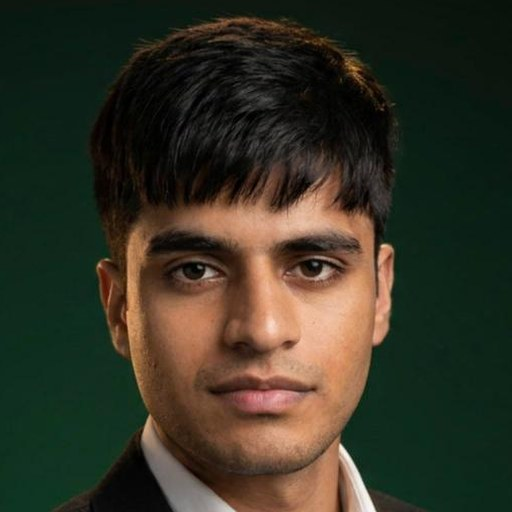
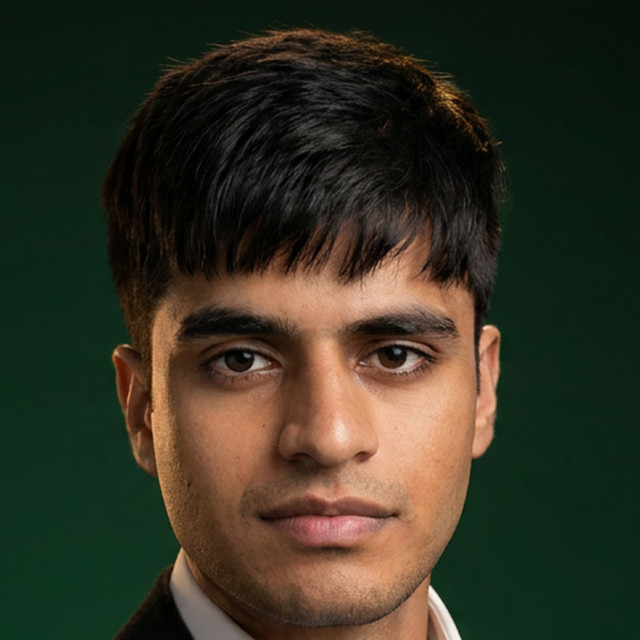
Founder portrait in true HD: 4x upscale, 1578x1973 with an 800w size
Claude-Session: https://claude.ai/code/session_0187yqiVD468vrpVUDyKmScc

Changed region(s): [[0.0938, 0.0312, 0.8438, 1.0], [0.75, 0.2188, 0.7812, 0.2812]]

diff --git a/index.html b/index.html
@@ -421,11 +421,11 @@
   </script>
 
   <link rel="preconnect" href="https://cdn.jsdelivr.net" crossorigin />
-  <script src="/analytics.js?v=44" async></script>
+  <script src="/analytics.js?v=45" async></script>
   <link rel="preload" as="image" href="https://i.ytimg.com/vi/UsLYYyKEknE/oar2.jpg" fetchpriority="high" />
   <link rel="preload" as="font" type="font/woff2" href="/assets/fonts/cormorant-garamond-latin-500-normal.woff2" crossorigin />
   <link rel="preload" as="font" type="font/woff2" href="/assets/fonts/figtree-latin-400-normal.woff2" crossorigin />
-  <link rel="stylesheet" href="styles.css?v=44" />
+  <link rel="stylesheet" href="styles.css?v=45" />
   <script>document.documentElement.classList.add('js','footer-gated')</script>
   <noscript><style>.loader,.cursor{display:none!important}body.is-loading{overflow:auto}</style></noscript>
 </head>
@@ -855,7 +855,7 @@
     <section class="team">
       <div class="container founderx">
         <figure class="founderx__photo" data-reveal>
-          <img src="assets/founder/ritik-sharma-portrait.jpg" alt="Ritik Sharma, Founder &amp; Director of Akarsa Studio" width="620" height="767" loading="lazy" decoding="async" />
+          <img src="assets/founder/ritik-sharma-portrait.jpg" srcset="assets/founder/ritik-sharma-portrait-800.jpg 800w, assets/founder/ritik-sharma-portrait.jpg 1578w" sizes="(max-width: 900px) 92vw, 46vw" alt="Ritik Sharma, Founder &amp; Director of Akarsa Studio" width="1578" height="1973" loading="lazy" decoding="async" />
         </figure>
         <div class="founderx__text">
           <span class="pill" data-pop>The founder</span>
@@ -1036,11 +1036,11 @@
     </div>
   </footer>
 
-  <script src="config.js?v=44"></script>
-  <script src="showcase.js?v=44" defer></script>
+  <script src="config.js?v=45"></script>
+  <script src="showcase.js?v=45" defer></script>
   <script src="https://cdn.jsdelivr.net/npm/gsap@3.12.5/dist/gsap.min.js" integrity="sha384-g4NTh/Iv5PPU4xPyhEWqPcwtNXOvdaDI8LLnyYfyNZOjKJeYQyjzQ9X5275eBjpt" crossorigin="anonymous"></script>
   <script src="https://cdn.jsdelivr.net/npm/gsap@3.12.5/dist/ScrollTrigger.min.js" integrity="sha384-Z3REaz79l2IaAZqJsSABtTbhjgOUYyV3p90XNnAPCSHg3EMTz1fouunq9WZRtj3d" crossorigin="anonymous"></script>
   <script src="https://cdn.jsdelivr.net/npm/lenis@1.1.13/dist/lenis.min.js" integrity="sha384-B2WBjDzEjJpYvhmi2UyEn7rektqkf5suS6sNoyyrf0EBAwBHdkiXxIlU0V5Ru2ed" crossorigin="anonymous"></script>
-  <script src="script.js?v=44"></script>
+  <script src="script.js?v=45"></script>
 </body>
 </html>

diff --git a/about.html b/about.html
@@ -17,7 +17,7 @@
       oaiq("measure", "lead_created", { type: "customer_action" });
     });
   </script>
-  <script src="/analytics.js?v=44" async></script>
+  <script src="/analytics.js?v=45" async></script>
   <meta name="viewport" content="width=device-width, initial-scale=1" />
   <title>About Akarsa Studio | Brand, Content &amp; Performance Studio, Dubai &amp; Indore</title>
   <meta name="description" content="Akarsa Studio Private Limited is a brand, content and performance studio for luxury real estate and jewellery brands, founded by Ritik Sharma. Facts, clients, results and contact." />
@@ -44,8 +44,8 @@
   <script>document.documentElement.classList.add('js')</script>
   <link rel="preload" as="font" type="font/woff2" href="/assets/fonts/open-sauce-one-latin-700-normal.woff2" crossorigin />
   <link rel="preload" as="font" type="font/woff2" href="/assets/fonts/open-sauce-one-latin-400-normal.woff2" crossorigin />
-  <link rel="stylesheet" href="/styles.css?v=44" />
-  <link rel="stylesheet" href="/page.css?v=44" />
+  <link rel="stylesheet" href="/styles.css?v=45" />
+  <link rel="stylesheet" href="/page.css?v=45" />
   <script type="application/ld+json">
 {
  "@context": "https://schema.org",
@@ -204,7 +204,7 @@
             <a class="ghost" href="#faq">Read the FAQs ↓</a>
           </div>
         </div>
-        <div class="pvisual pvisual--portrait"><img src="/assets/founder/ritik-sharma-portrait.jpg" alt="Ritik Sharma, Founder &amp; Director of Akarsa Studio" width="620" height="767" loading="eager" />
+        <div class="pvisual pvisual--portrait"><img src="/assets/founder/ritik-sharma-portrait.jpg" srcset="/assets/founder/ritik-sharma-portrait-800.jpg 800w, /assets/founder/ritik-sharma-portrait.jpg 1578w" sizes="(max-width: 900px) 92vw, 44vw" alt="Ritik Sharma, Founder &amp; Director of Akarsa Studio" width="1578" height="1973" loading="eager" />
   <div class="pvisual__cap"><strong>Ritik Sharma</strong><span>Founder &amp; Director</span></div>
 </div>
       </div>
@@ -277,8 +277,8 @@
       <a href="#top" class="to-top">Back to top ↑</a>
     </div>
   </footer>
-  <script src="/config.js?v=44"></script>
-  <script src="/page.js?v=44"></script>
-  <script src="/showcase.js?v=44" defer></script>
+  <script src="/config.js?v=45"></script>
+  <script src="/page.js?v=45"></script>
+  <script src="/showcase.js?v=45" defer></script>
 </body>
 </html>

diff --git a/meta-ads-agency-indore.html b/meta-ads-agency-indore.html
@@ -17,7 +17,7 @@
       oaiq("measure", "lead_created", { type: "customer_action" });
     });
   </script>
-  <script src="/analytics.js?v=44" async></script>
+  <script src="/analytics.js?v=45" async></script>
   <meta name="viewport" content="width=device-width, initial-scale=1" />
   <title>Meta Ads Agency in Indore | Facebook &amp; Instagram Ads</title>
   <meta name="description" content="Facebook &amp; Instagram ads from Indore that cut cost per lead. Real result: ₹30K turned into 52 enquiries at ₹577 each. Strategy, creative, tracking." />
@@ -44,8 +44,8 @@
   <script>document.documentElement.classList.add('js')</script>
   <link rel="preload" as="font" type="font/woff2" href="/assets/fonts/open-sauce-one-latin-700-normal.woff2" crossorigin />
   <link rel="preload" as="font" type="font/woff2" href="/assets/fonts/open-sauce-one-latin-400-normal.woff2" crossorigin />
-  <link rel="stylesheet" href="/styles.css?v=44" />
-  <link rel="stylesheet" href="/page.css?v=44" />
+  <link rel="stylesheet" href="/styles.css?v=45" />
+  <link rel="stylesheet" href="/page.css?v=45" />
   <script type="application/ld+json">
 {
  "@context": "https://schema.org",
@@ -291,8 +291,8 @@
       <a href="#top" class="to-top">Back to top ↑</a>
     </div>
   </footer>
-  <script src="/config.js?v=44"></script>
-  <script src="/page.js?v=44"></script>
-  <script src="/showcase.js?v=44" defer></script>
+  <script src="/config.js?v=45"></script>
+  <script src="/page.js?v=45"></script>
+  <script src="/showcase.js?v=45" defer></script>
 </body>
 </html>

diff --git a/results.html b/results.html
@@ -17,7 +17,7 @@
       oaiq("measure", "lead_created", { type: "customer_action" });
     });
   </script>
-  <script src="/analytics.js?v=44" async></script>
+  <script src="/analytics.js?v=45" async></script>
   <meta name="viewport" content="width=device-width, initial-scale=1" />
   <title>Meta Ads Results &amp; ROAS: Real Numbers | Akarsa Studio</title>
   <meta name="description" content="Real Meta ads numbers from Ads Manager: 196 purchases at ₹381 each and 3.7× ROAS for an e-commerce brand, and 2.74× ROAS for an international store." />
@@ -44,8 +44,8 @@
   <script>document.documentElement.classList.add('js')</script>
   <link rel="preload" as="font" type="font/woff2" href="/assets/fonts/open-sauce-one-latin-700-normal.woff2" crossorigin />
   <link rel="preload" as="font" type="font/woff2" href="/assets/fonts/open-sauce-one-latin-400-normal.woff2" crossorigin />
-  <link rel="stylesheet" href="/styles.css?v=44" />
-  <link rel="stylesheet" href="/page.css?v=44" />
+  <link rel="stylesheet" href="/styles.css?v=45" />
+  <link rel="stylesheet" href="/page.css?v=45" />
   <script type="application/ld+json">
 {
  "@context": "https://schema.org",
@@ -274,8 +274,8 @@
       <a href="#top" class="to-top">Back to top ↑</a>
     </div>
   </footer>
-  <script src="/config.js?v=44"></script>
-  <script src="/page.js?v=44"></script>
-  <script src="/showcase.js?v=44" defer></script>
+  <script src="/config.js?v=45"></script>
+  <script src="/page.js?v=45"></script>
+  <script src="/showcase.js?v=45" defer></script>
 </body>
 </html>

diff --git a/ugc-video-production-agency.html b/ugc-video-production-agency.html
@@ -17,7 +17,7 @@
       oaiq("measure", "lead_created", { type: "customer_action" });
     });
   </script>
-  <script src="/analytics.js?v=44" async></script>
+  <script src="/analytics.js?v=45" async></script>
   <meta name="viewport" content="width=device-width, initial-scale=1" />
   <title>UGC &amp; Reels Production Agency in India | Akarsa Studio</title>
   <meta name="description" content="Scroll-stopping reels, UGC ads and short-form edits from Indore — hooks, scripts, shooting, editing and motion for Instagram, YouTube Shorts and ads." />
@@ -44,8 +44,8 @@
   <script>document.documentElement.classList.add('js')</script>
   <link rel="preload" as="font" type="font/woff2" href="/assets/fonts/open-sauce-one-latin-700-normal.woff2" crossorigin />
   <link rel="preload" as="font" type="font/woff2" href="/assets/fonts/open-sauce-one-latin-400-normal.woff2" crossorigin />
-  <link rel="stylesheet" href="/styles.css?v=44" />
-  <link rel="stylesheet" href="/page.css?v=44" />
+  <link rel="stylesheet" href="/styles.css?v=45" />
+  <link rel="stylesheet" href="/page.css?v=45" />
   <script type="application/ld+json">
 {
  "@context": "https://schema.org",
@@ -285,8 +285,8 @@
       <a href="#top" class="to-top">Back to top ↑</a>
     </div>
   </footer>
-  <script src="/config.js?v=44"></script>
-  <script src="/page.js?v=44"></script>
-  <script src="/showcase.js?v=44" defer></script>
+  <script src="/config.js?v=45"></script>
+  <script src="/page.js?v=45"></script>
+  <script src="/showcase.js?v=45" defer></script>
 </body>
 </html>

diff --git a/insights/meta-ads-cost-india.html b/insights/meta-ads-cost-india.html
@@ -17,7 +17,7 @@
       oaiq("measure", "lead_created", { type: "customer_action" });
     });
   </script>
-  <script src="/analytics.js?v=44" async></script>
+  <script src="/analytics.js?v=45" async></script>
   <meta name="viewport" content="width=device-width, initial-scale=1" />
   <title>Meta Ads Cost in India (2026): CPM, CPC &amp; Cost per Lead</title>
   <meta name="description" content="Meta (Facebook &amp; Instagram) ads cost in India in 2026: CPM, CPC and cost-per-lead benchmarks by industry — plus real campaign data from Indore." />
@@ -44,8 +44,8 @@
   <script>document.documentElement.classList.add('js')</script>
   <link rel="preload" as="font" type="font/woff2" href="/assets/fonts/open-sauce-one-latin-700-normal.woff2" crossorigin />
   <link rel="preload" as="font" type="font/woff2" href="/assets/fonts/open-sauce-one-latin-400-normal.woff2" crossorigin />
-  <link rel="stylesheet" href="/styles.css?v=44" />
-  <link rel="stylesheet" href="/page.css?v=44" />
+  <link rel="stylesheet" href="/styles.css?v=45" />
+  <link rel="stylesheet" href="/page.css?v=45" />
   <script type="application/ld+json">
 {
  "@context": "https://schema.org",
@@ -299,8 +299,8 @@
       <a href="#top" class="to-top">Back to top ↑</a>
     </div>
   </footer>
-  <script src="/config.js?v=44"></script>
-  <script src="/page.js?v=44"></script>
-  <script src="/showcase.js?v=44" defer></script>
+  <script src="/config.js?v=45"></script>
+  <script src="/page.js?v=45"></script>
+  <script src="/showcase.js?v=45" defer></script>
 </body>
 </html>

diff --git a/insights/reddit-ads-cost-india.html b/insights/reddit-ads-cost-india.html
@@ -17,7 +17,7 @@
       oaiq("measure", "lead_created", { type: "customer_action" });
     });
   </script>
-  <script src="/analytics.js?v=44" async></script>
+  <script src="/analytics.js?v=45" async></script>
   <meta name="viewport" content="width=device-width, initial-scale=1" />
   <title>Reddit Ads Cost in India (2026): CPC, CPM &amp; Budgets</title>
   <meta name="description" content="What Reddit ads cost in India in 2026 — minimum budget, CPC and CPM benchmarks, targeting options, and when Reddit ads are worth it for Indian brands." />
@@ -44,8 +44,8 @@
   <script>document.documentElement.classList.add('js')</script>
   <link rel="preload" as="font" type="font/woff2" href="/assets/fonts/open-sauce-one-latin-700-normal.woff2" crossorigin />
   <link rel="preload" as="font" type="font/woff2" href="/assets/fonts/open-sauce-one-latin-400-normal.woff2" crossorigin />
-  <link rel="stylesheet" href="/styles.css?v=44" />
-  <link rel="stylesheet" href="/page.css?v=44" />
+  <link rel="stylesheet" href="/styles.css?v=45" />
+  <link rel="stylesheet" href="/page.css?v=45" />
   <script type="application/ld+json">
 {
  "@context": "https://schema.org",
@@ -302,8 +302,8 @@
       <a href="#top" class="to-top">Back to top ↑</a>
     </div>
   </footer>
-  <script src="/config.js?v=44"></script>
-  <script src="/page.js?v=44"></script>
-  <script src="/showcase.js?v=44" defer></script>
+  <script src="/config.js?v=45"></script>
+  <script src="/page.js?v=45"></script>
+  <script src="/showcase.js?v=45" defer></script>
 </body>
 </html>

diff --git a/digital-marketing-agency-vijay-nagar-indore.html b/digital-marketing-agency-vijay-nagar-indore.html
@@ -17,7 +17,7 @@
       oaiq("measure", "lead_created", { type: "customer_action" });
     });
   </script>
-  <script src="/analytics.js?v=44" async></script>
+  <script src="/analytics.js?v=45" async></script>
   <meta name="viewport" content="width=device-width, initial-scale=1" />
   <title>Digital Marketing Agency in Vijay Nagar, Indore | Akarsa</title>
   <meta name="description" content="Visit Akarsa Studio at Shagun Arcade, near Vijay Nagar Square, Indore — social media, Meta, Google, Reddit &amp; ChatGPT ads, branding and websites." />
@@ -44,8 +44,8 @@
   <script>document.documentElement.classList.add('js')</script>
   <link rel="preload" as="font" type="font/woff2" href="/assets/fonts/open-sauce-one-latin-700-normal.woff2" crossorigin />
   <link rel="preload" as="font" type="font/woff2" href="/assets/fonts/open-sauce-one-latin-400-normal.woff2" crossorigin />
-  <link rel="stylesheet" href="/styles.css?v=44" />
-  <link rel="stylesheet" href="/page.css?v=44" />
+  <link rel="stylesheet" href="/styles.css?v=45" />
+  <link rel="stylesheet" href="/page.css?v=45" />
   <script type="application/ld+json">
 {
  "@context": "https://schema.org",
@@ -298,8 +298,8 @@
       <a href="#top" class="to-top">Back to top ↑</a>
     </div>
   </footer>
-  <script src="/config.js?v=44"></script>
-  <script src="/page.js?v=44"></script>
-  <script src="/showcase.js?v=44" defer></script>
+  <script src="/config.js?v=45"></script>
+  <script src="/page.js?v=45"></script>
+  <script src="/showcase.js?v=45" defer></script>
 </body>
 </html>

diff --git a/insights/index.html b/insights/index.html
@@ -17,7 +17,7 @@
       oaiq("measure", "lead_created", { type: "customer_action" });
     });
   </script>
-  <script src="/analytics.js?v=44" async></script>
+  <script src="/analytics.js?v=45" async></script>
   <meta name="viewport" content="width=device-width, initial-scale=1" />
   <title>Marketing Insights &amp; Guides | Akarsa Studio</title>
   <meta name="description" content="Data-backed guides on ChatGPT ads, Reddit ads and Meta ads costs in India — written by Akarsa Studio, a brand, content and performance studio in Indore." />
@@ -44,8 +44,8 @@
   <script>document.documentElement.classList.add('js')</script>
   <link rel="preload" as="font" type="font/woff2" href="/assets/fonts/open-sauce-one-latin-700-normal.woff2" crossorigin />
   <link rel="preload" as="font" type="font/woff2" href="/assets/fonts/open-sauce-one-latin-400-normal.woff2" crossorigin />
-  <link rel="stylesheet" href="/styles.css?v=44" />
-  <link rel="stylesheet" href="/page.css?v=44" />
+  <link rel="stylesheet" href="/styles.css?v=45" />
+  <link rel="stylesheet" href="/page.css?v=45" />
   <script type="application/ld+json">
 {
  "@context": "https://schema.org",
@@ -206,8 +206,8 @@
       <a href="#top" class="to-top">Back to top ↑</a>
     </div>
   </footer>
-  <script src="/config.js?v=44"></script>
-  <script src="/page.js?v=44"></script>
-  <script src="/showcase.js?v=44" defer></script>
+  <script src="/config.js?v=45"></script>
+  <script src="/page.js?v=45"></script>
+  <script src="/showcase.js?v=45" defer></script>
 </body>
 </html>

diff --git a/social-media-marketing-agency-indore.html b/social-media-marketing-agency-indore.html
@@ -17,7 +17,7 @@
       oaiq("measure", "lead_created", { type: "customer_action" });
     });
   </script>
-  <script src="/analytics.js?v=44" async></script>
+  <script src="/analytics.js?v=45" async></script>
   <meta name="viewport" content="width=device-width, initial-scale=1" />
   <title>Social Media Marketing Agency in Indore | Akarsa Studio</title>
   <meta name="description" content="Instagram, Facebook, YouTube &amp; LinkedIn management in Indore: content calendars, reels, UGC, community and paid social. Trusted by 20+ brands." />
@@ -44,8 +44,8 @@
   <script>document.documentElement.classList.add('js')</script>
   <link rel="preload" as="font" type="font/woff2" href="/assets/fonts/open-sauce-one-latin-700-normal.woff2" crossorigin />
   <link rel="preload" as="font" type="font/woff2" href="/assets/fonts/open-sauce-one-latin-400-normal.woff2" crossorigin />
-  <link rel="stylesheet" href="/styles.css?v=44" />
-  <link rel="stylesheet" href="/page.css?v=44" />
+  <link rel="stylesheet" href="/styles.css?v=45" />
+  <link rel="stylesheet" href="/page.css?v=45" />
   <script type="application/ld+json">
 {
  "@context": "https://schema.org",
@@ -287,8 +287,8 @@
       <a href="#top" class="to-top">Back to top ↑</a>
     </div>
   </footer>
-  <script src="/config.js?v=44"></script>
-  <script src="/page.js?v=44"></script>
-  <script src="/showcase.js?v=44" defer></script>
+  <script src="/config.js?v=45"></script>
+  <script src="/page.js?v=45"></script>
+  <script src="/showcase.js?v=45" defer></script>
 </body>
 </html>

diff --git a/branding-agency-indore.html b/branding-agency-indore.html
@@ -17,7 +17,7 @@
       oaiq("measure", "lead_created", { type: "customer_action" });
     });
   </script>
-  <script src="/analytics.js?v=44" async></script>
+  <script src="/analytics.js?v=45" async></script>
   <meta name="viewport" content="width=device-width, initial-scale=1" />
   <title>Branding Agency in Indore | Logo &amp; Brand Identity Design</title>
   <meta name="description" content="Brand identity, logo design and graphic design from Indore — visual systems that make your brand simple, beautiful and unmistakably yours." />
@@ -44,8 +44,8 @@
   <script>document.documentElement.classList.add('js')</script>
   <link rel="preload" as="font" type="font/woff2" href="/assets/fonts/open-sauce-one-latin-700-normal.woff2" crossorigin />
   <link rel="preload" as="font" type="font/woff2" href="/assets/fonts/open-sauce-one-latin-400-normal.woff2" crossorigin />
-  <link rel="stylesheet" href="/styles.css?v=44" />
-  <link rel="stylesheet" href="/page.css?v=44" />
+  <link rel="stylesheet" href="/styles.css?v=45" />
+  <link rel="stylesheet" href="/page.css?v=45" />
   <script type="application/ld+json">
 {
  "@context": "https://schema.org",
@@ -289,8 +289,8 @@
       <a href="#top" class="to-top">Back to top ↑</a>
     </div>
   </footer>
-  <script src="/config.js?v=44"></script>
-  <script src="/page.js?v=44"></script>
-  <script src="/showcase.js?v=44" defer></script>
+  <script src="/config.js?v=45"></script>
+  <script src="/page.js?v=45"></script>
+  <script src="/showcase.js?v=45" defer></script>
 </body>
 </html>

diff --git a/insights/chatgpt-ads-india-guide.html b/insights/chatgpt-ads-india-guide.html
@@ -17,7 +17,7 @@
       oaiq("measure", "lead_created", { type: "customer_action" });
     });
   </script>
-  <script src="/analytics.js?v=44" async></script>
+  <script src="/analytics.js?v=45" async></script>
   <meta name="viewport" content="width=device-width, initial-scale=1" />
   <title>ChatGPT Ads in India (2026): Launch, Cost &amp; How to Start</title>
   <meta name="description" content="Everything Indian businesses need to know about ChatGPT ads: launch date, who sees them, ₹725/day minimum budget, rules, and how to start." />
@@ -44,8 +44,8 @@
   <script>document.documentElement.classList.add('js')</script>
   <link rel="preload" as="font" type="font/woff2" href="/assets/fonts/open-sauce-one-latin-700-normal.woff2" crossorigin />
   <link rel="preload" as="font" type="font/woff2" href="/assets/fonts/open-sauce-one-latin-400-normal.woff2" crossorigin />
-  <link rel="stylesheet" href="/styles.css?v=44" />
-  <link rel="stylesheet" href="/page.css?v=44" />
+  <link rel="stylesheet" href="/styles.css?v=45" />
+  <link rel="stylesheet" href="/page.css?v=45" />
   <script type="application/ld+json">
 {
  "@context": "https://schema.org",
@@ -297,8 +297,8 @@
       <a href="#top" class="to-top">Back to top ↑</a>
     </div>
   </footer>
-  <script src="/config.js?v=44"></script>
-  <script src="/page.js?v=44"></script>
-  <script src="/showcase.js?v=44" defer></script>
+  <script src="/config.js?v=45"></script>
+  <script src="/page.js?v=45"></script>
+  <script src="/showcase.js?v=45" defer></script>
 </body>
 </html>
